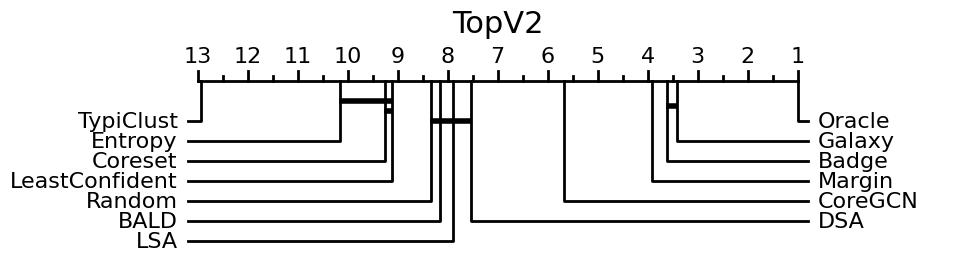
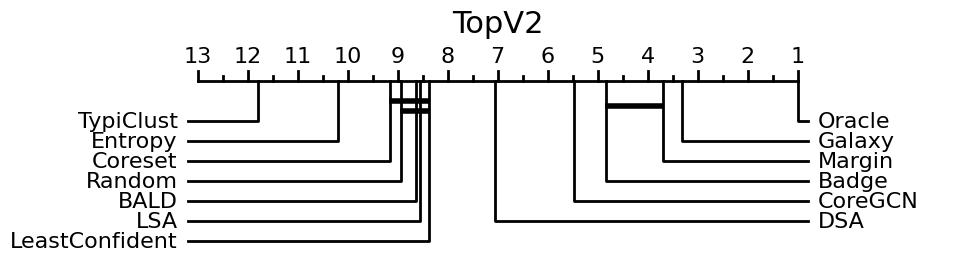
rebuttal

diff --git a/results/cd_diagram.py b/results/cd_diagram.py
@@ -465,6 +465,6 @@ if __name__ == '__main__':
     # draw_cd_diagram(df, title="Diverging Sine", file="doc/img/micro_diverging_sin.jpg")
 
     # Rebuttal
-    df = combine_agents_into_df(dataset="TopV2", query_size=["5", "20", "50"], include_oracle=True)
+    df = combine_agents_into_df(dataset="TopV2", query_size=["1", "5", "20", "50"], include_oracle=True)
     df = prepare_df(df)
     draw_cd_diagram(df, title="TopV2", file="doc/img/micro_topv2.jpg")

diff --git a/doc/rebuttal.md b/doc/rebuttal.md
@@ -29,7 +29,7 @@ We will add Zhang et al to Table 1 and our Related Work
 
 The "oracle" needs to be explained earlier. It is discussed and referenced a lot, but you don't actually describe what it is until section 6. I was very confused, since typically "oracle" might also refer to an annotator. Things made sense at section 6, but a preview of what exactly the oracle does should be discussed as soon as possible. Looking again, it is discussed at line 53 but I actually found this paragraph very vague.
 ```
-The entire section explaining the oracle will be revised for the camera ready version, apart from introducing the concept earlier in the paper, we aim to improve the understanding of readers without prior knowledge.
+The entire section explaining the oracle will be revised for the camera ready version, apart from introducing the concept earlier in the paper, we aim to improve the understanding of readers without prior knowledge (also mentioned by another reviewer).
 ```
 
 what is "sngl" in Table 1? Single point sampling per round?
@@ -39,7 +39,7 @@ Yes, we will improve the clarity in Table 1
 
 what is 9(14) in Table 1 in the last row?
 ```
-We have 9 datasets in our benchmark, 5 of whichhave a pre-encoded version (excluding text and synthetic) , which brings the total number of experiments to 14.
+We have 9 datasets in our benchmark, 5 of which have a pre-encoded version (excluding text and synthetic) , which brings the total number of experiments to 14.
 ```
 
 not sure what i\in means really after line 93
@@ -55,8 +55,10 @@ Similar to the explanations about the oracle, we aim to revise this section to i
 
 the choice of validation on the entire dataset needs more discussion (line 194). This is a huge criticism of active learning research, to choose parameters based on a full validation set. I understand the argument for lower variance in research evaluation, but I don't think the justification here is sufficient. In particular, Figure 1 argues that the high variance in research results is a problem. Why mask it, with an unrealistic validation? Won't that make things worse?
 ```
-@Max 
-
+It is true that, by proposing to use a fully labeled validation set, we implicitly claim that most AL research so far was done wrong.
+However, we don't want to invalidate AL literature as a whole, but rather push for a stronger separation of AL research (with validation set) and AL applications (without validation set).
+With our idea, we don't try to mask the high variance, but rather claim that **due** to the high variance we should consider fully optimizing our hyperparameters on validation to not make the effects of it worse.
+The core hypothesis is that a top-performing algorithm in an experiment with good hyperparameters also performs well in the application case with bad/worse hyperparameters.
 ```
 
 # Reviewer x7yL
@@ -123,16 +125,18 @@ This will also include a more in-depth comparison of our results with other benc
 
 The proposed metric of average ranking may not be a convenient/intuitive metric for benchmarks. Specifically, whenever a new algorithm is introduced, the scores of every algorithm will change. Moreover, practitioners are generally interested in either accuracy or label-efficiency (number of labels needed to reach a certain accuracy). The adopted metric does not capture any of these quantities directly. In some cases, entropy, badge and margin may all perform very similarly in accuracy/label-efficiency but remains stable in their relative ranking. The metric in this paper would significantly penalize the algorithms that perform relatively worse, which does not give an accurate quantification in the actual performance of the algorithms themselves.
 ```
-We fully agree with the reviewer that accuracy scores need to be reported for any classification problem that is not severely imbalanced.
+We fully agree with the reviewer that accuracy scores need to be reported for any classification problem.
 We have all accuracy scores in Appendix K, including standard deviations and the amount of wins per algorithm.
-We would like to point out that our benchmark aggregrates results from different datasets, from which we cannot simply average the accuracies to display them in a table, etc.
+We would like to point out that our benchmark aggregrates results from different datasets, which we cannot be done by simply averaging the accuracies to display them in a table, etc.
 For a fair comparison, we rely on the paired-t-test, which the Critical-Difference-Diagrams conveniently provide.
-Lastly, we have been unable to include a second results table besides Table 3 within the page limit.
+Lastly, we have been unable to include a second results table besides Table 3 within the page limit and therefore located our accuracy values in the Appendix.
 ```
 
 An interesting finding in LabelBench is imbalanced active learning algorithms like GALAXY performs significantly better on imbalanced datasets. Since most of the language and tabular datasets are imbalanced, it would be interesting to see how such algorithms perform. The conclusion that "entropy sampling" or "margin sampling" is the best may not be entirely accurate.
 ```
 We omitted information about class imbalance for our datasets, as we did not focus on that aspect.
 However, both our text, and 2 out of 3 tabular datasets are imbalanced by nature. Implementing GALAXY and discussing results along this dimension as well is a great suggestion. 
-Since testing GALAXY on our entire benchmark is a significant computational effort, we only provide preliminary experiments on the TopV2 dataset.
+Since testing GALAXY on our entire benchmark is a significant computational effort, we can only provide experiments on the TopV2 dataset for this rebuttal (doc/img/micro_dna).
+However, GALAXY is indeed the top performing algorithm on the unbalanced TopV2 dataset.
+We thank the reviewer for this valuable addition to the benchmark and will fully incorporate GALAXY for the paper ready version.
 ```
